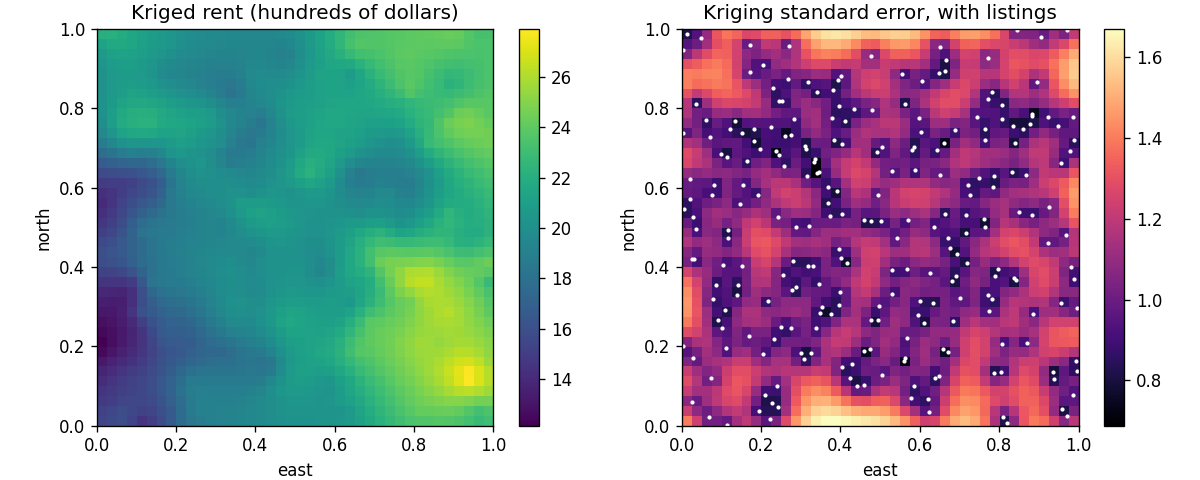
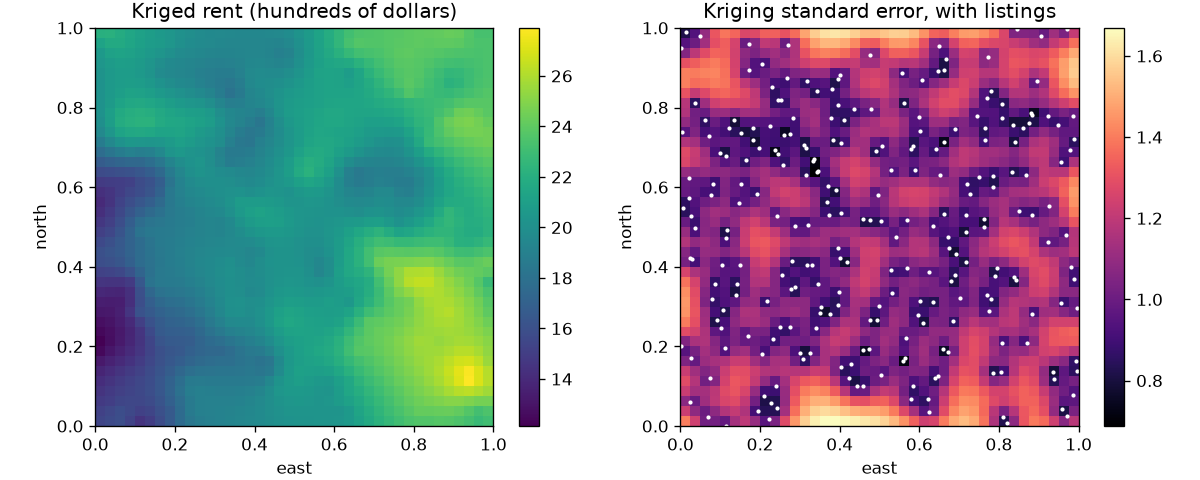
Review Chapter 4 (Kriging as BLUP) and expand analytical exercises
- Review Chapter 4 derivations, Schur complement inversions, and LOOCV shortcut
- Expand Exercise bank from 15 to 20 problems with 5 new analytical exercises:
  * Exercise 11: Variogram formulation of Ordinary Kriging under intrinsic stationarity
  * Exercise 12: Exact screening effect in 1D Markov fields (Ornstein-Uhlenbeck)
  * Exercise 13: Derivation of Gaussian conditional expectation (BLUP optimality)
  * Exercise 14: Sequential kriging updates via block inversion and Woodbury identity
  * Exercise 15: Lagrange multiplier as marginal sensitivity of prediction uncertainty
- Renumber computational exercises to 16–20
- Clarify why joint simulation (joint_field) is required for ground-truth checks in §4.5.4
- Mark §4.5.3 (kernel ridge regression connection) as (Optional) in chapter and outline
- Synchronize OUTLINE.md running stories for block kriging to neighborhood rents
- Update OPEN_QUESTIONS.md and README.md with Chapter 4 approval (10,823 words)
- Verify lint_chapter.py, check_consistency.py, and run_chapter_code.py pass cleanly

diff --git a/spatial-data-analysis/current/chapters/ch04_kriging_blup.md b/spatial-data-analysis/current/chapters/ch04_kriging_blup.md
@@ -617,7 +617,9 @@ $$
 
 The prediction is the same; the interval is wider, by the nugget. A landlord who asks "what will this particular apartment rent for?" needs the wider interval. An agency mapping the rent level of a neighborhood needs the narrower one. Software output often does not say which it reports, which is one reason to understand the derivation.
 
-### 4.5.3 Kriging Is Gaussian Process Regression and Kernel Ridge Regression
+### 4.5.3 Kriging Is Gaussian Process Regression and Kernel Ridge Regression (Optional)
+
+*This subsection connects kriging to Gaussian process regression and kernel ridge regression in machine learning. It can be skipped on a first reading.*
 
 Kriging appears under other names in machine learning. Two connections are worth making precise.
 
@@ -657,7 +659,7 @@ $$
 
 The naive back-transformation $\exp(\hat{Y}_{\text{SK}})$ estimates the conditional median, not the mean, and is biased low. The correction factor $e^{\sigma^2_{\text{SK}}/2}$ is largest where the prediction is least certain. (With an estimated mean, as in ordinary or universal kriging, the exact correction has an extra term; using the kriging variance in its place is a common approximation.)
 
-The code checks this on a simulated log-rent field, with log-scale mean 3 (a typical rent of $e^3 \approx 20$, about \$2,000), $\sigma^2 = 0.09$, $\tau^2 = 0.01$, and $\phi = 0.15$. It predicts the noise-free rent on a $20 \times 20$ grid of unlisted locations. Checking against the truth requires the true values at those grid locations, so the spatial effect must be simulated jointly at the listings and the grid. The function `joint_field` does that: one Cholesky factorization of the combined covariance matrix, as in Section 2.7. The rent district generator used elsewhere in this chapter simulates only at the listings, which is why a second generator is needed here.
+The code checks this on a simulated log-rent field, with log-scale mean 3 (a typical rent of $e^3 \approx 20$, about \$2,000), $\sigma^2 = 0.09$, $\tau^2 = 0.01$, and $\phi = 0.15$. It predicts the noise-free rent on a $20 \times 20$ grid of unlisted locations. Checking against the truth requires knowing what the true surface was at those unlisted grid locations. Simulating the listings first with `rent_district()` and then simulating the grid in a separate call would produce two independent realizations, destroying the spatial correlation between the data and the targets. To preserve the covariance $\mathbf{c}_0$, the random effect $\mathbf{u}$ must be drawn jointly from the combined $(n + m)$-dimensional distribution. The function `joint_field` does that through a single Cholesky factorization of the combined covariance matrix, as in Section 2.7. The rent district generator used elsewhere in this chapter simulates only at the listings, which is why a second generator is needed here.
 
 ```python
 def joint_field(S_obs, S_new, sigma2, phi, seed):
@@ -1029,17 +1031,50 @@ The two columns tell different stories. The standard error of the prediction fal
 
 10. In the block-kriging argument of Section 4.6.3, when is the inequality an equality? Describe a covariance model and a block for which block kriging gives almost no improvement over point kriging.
 
+11. Formulate ordinary kriging directly through the semivariogram $\gamma(\mathbf{h})$ rather than the covariance $C(\mathbf{h})$. Assume intrinsic stationarity, with $\gamma(\mathbf{s}_i - \mathbf{s}_j) = C(\mathbf{0}) - C(\mathbf{s}_i - \mathbf{s}_j)$. Define the $n \times n$ semivariogram matrix $\boldsymbol{\Gamma}$ with entries $\Gamma_{ij} = \gamma(\mathbf{s}_i - \mathbf{s}_j)$ and the target semivariogram vector $\boldsymbol{\gamma}_0$ with entries $(\boldsymbol{\gamma}_0)_i = \gamma(\mathbf{s}_i - \mathbf{s}_0)$.
+    (a) For any weight vector satisfying $\boldsymbol{\lambda}'\mathbf{1}_n = 1$, show that $\boldsymbol{\lambda}'\boldsymbol{\Sigma}\boldsymbol{\lambda} = C(\mathbf{0}) - \boldsymbol{\lambda}'\boldsymbol{\Gamma}\boldsymbol{\lambda}$ and $\boldsymbol{\lambda}'\mathbf{c}_0 = C(\mathbf{0}) - \boldsymbol{\lambda}'\boldsymbol{\gamma}_0$.
+    (b) Show that minimizing the prediction error variance subject to $\boldsymbol{\lambda}'\mathbf{1}_n = 1$ leads to the linear system
+    $$
+    \begin{bmatrix} \boldsymbol{\Gamma} & \mathbf{1}_n \\ \mathbf{1}_n' & 0 \end{bmatrix} \begin{bmatrix} \boldsymbol{\lambda} \\ m_\gamma \end{bmatrix} = \begin{bmatrix} \boldsymbol{\gamma}_0 \\ 1 \end{bmatrix}
+    $$
+    with $m_\gamma = -m$, giving the identical weights $\boldsymbol{\lambda}_{\text{OK}}$ as the covariance system.
+    (c) Show that the ordinary kriging variance equals $\sigma^2_{\text{OK}} = \boldsymbol{\lambda}'\boldsymbol{\gamma}_0 + m_\gamma$. Use this to explain why ordinary kriging requires only intrinsic stationarity, whereas simple kriging requires second-order stationarity.
+
+12. In a one-dimensional spatial process on the line with exponential covariance $C(h) = \sigma^2 \exp(-\lvert h\rvert / \phi)$ and no nugget ($\tau^2 = 0$), the process is a stationary Markov process (the Ornstein-Uhlenbeck process). Suppose observations are located at $s_1 < s_2 < \dots < s_n$. We want to predict $\tilde{Y}(s_0)$ at an interior point $s_0 \in (s_k, s_{k+1})$ by simple kriging with mean zero.
+    (a) Using the tridiagonal structure of $\boldsymbol{\Sigma}^{-1}$ from Section 1.3.2, show that the simple kriging weights $\lambda_j$ are zero for all $j \notin \{k, k+1\}$: the screening effect is exact.
+    (b) Solve the reduced $2 \times 2$ system for the weights $\lambda_k$ and $\lambda_{k+1}$ on the two enclosing neighbors in terms of $d_1 = s_0 - s_k$, $d_2 = s_{k+1} - s_0$, and $\Delta = s_{k+1} - s_k = d_1 + d_2$.
+    (c) Show that both weights are positive. Show that as the correlation range $\phi \to \infty$, the weights converge to linear interpolation: $\lambda_k \to d_2 / \Delta$ and $\lambda_{k+1} \to d_1 / \Delta$.
+
+13. Derive the simple kriging predictor as a conditional expectation under joint normality. Suppose $\mathbf{Y}$ and $\tilde{Y}_0 = \tilde{Y}(\mathbf{s}_0)$ are jointly Gaussian:
+    $$
+    \begin{bmatrix} \mathbf{Y} \\ \tilde{Y}_0 \end{bmatrix} \sim N\!\left(\begin{bmatrix} \boldsymbol{\mu} \\ \mu_0 \end{bmatrix},\; \begin{bmatrix} \boldsymbol{\Sigma} & \mathbf{c}_0 \\ \mathbf{c}_0' & \sigma^2 \end{bmatrix}\right)
+    $$
+    Define the random variable $Z = \tilde{Y}_0 - \mathbf{c}_0'\boldsymbol{\Sigma}^{-1}\mathbf{Y}$.
+    (a) Compute $\operatorname{Cov}(Z, \mathbf{Y})$ and show that it equals $\mathbf{0}'$.
+    (b) Because linear combinations of Gaussian vectors are Gaussian, zero covariance implies that $Z$ and $\mathbf{Y}$ are independent. Use this independence to evaluate $\operatorname{E}[\tilde{Y}_0 \mid \mathbf{Y}]$ and $\operatorname{Var}(\tilde{Y}_0 \mid \mathbf{Y})$ by writing $\tilde{Y}_0 = Z + \mathbf{c}_0'\boldsymbol{\Sigma}^{-1}\mathbf{Y}$.
+    (c) Confirm that the conditional mean and conditional variance match the simple kriging formulas $\hat{Y}_{\text{SK}}(\mathbf{s}_0)$ and $\sigma^2_{\text{SK}}(\mathbf{s}_0)$. Explain why this implies that under normality, no nonlinear predictor can achieve a lower mean squared prediction error than simple kriging.
+
+14. Suppose simple kriging weights $\boldsymbol{\lambda}_n = \boldsymbol{\Sigma}_n^{-1}\mathbf{c}_0$ have been computed for $n$ listings. A new listing arrives at location $\mathbf{s}_{n+1}$, expanding the covariance matrix to $\boldsymbol{\Sigma}_{n+1} = \begin{bmatrix} \boldsymbol{\Sigma}_n & \mathbf{k} \\ \mathbf{k}' & \Sigma_{n+1, n+1} \end{bmatrix}$ and the target covariance to $\mathbf{c}_{0, n+1} = (\mathbf{c}_0', c_{0, n+1})'$.
+    (a) Use the block inversion formula of Section 4.3.4 to express $\boldsymbol{\Sigma}_{n+1}^{-1}$ in terms of $\boldsymbol{\Sigma}_n^{-1}$, $\mathbf{k}$, and the scalar Schur complement $s = \Sigma_{n+1, n+1} - \mathbf{k}'\boldsymbol{\Sigma}_n^{-1}\mathbf{k}$.
+    (b) Show that the new weight on listing $n+1$ is $\lambda_{n+1} = (c_{0, n+1} - \mathbf{k}'\boldsymbol{\lambda}_n) / s$, and express the updated weights $\boldsymbol{\lambda}_{1:n}$ on the original $n$ listings in terms of $\boldsymbol{\lambda}_n$ and $\lambda_{n+1}$.
+    (c) Show that the updated simple kriging variance satisfies $\sigma^2_{\text{SK}, n+1} = \sigma^2_{\text{SK}, n} - s\,\lambda_{n+1}^2$. Conclude that adding an observation can never increase the simple kriging variance.
+
+15. In ordinary kriging, consider relaxing the unbiasedness constraint to $\boldsymbol{\lambda}'\mathbf{1}_n = c$ for an arbitrary scalar $c$.
+    (a) Minimize $\operatorname{MSPE}(\boldsymbol{\lambda}) = \boldsymbol{\lambda}'\boldsymbol{\Sigma}\boldsymbol{\lambda} - 2\boldsymbol{\lambda}'\mathbf{c}_0 + \sigma^2$ subject to $\boldsymbol{\lambda}'\mathbf{1}_n = c$ using the Lagrangian $\mathcal{L}_c(\boldsymbol{\lambda}, m) = \operatorname{MSPE}(\boldsymbol{\lambda}) + 2m(\boldsymbol{\lambda}'\mathbf{1}_n - c)$. Show that the constrained minimum variance as a function of $c$, $V(c)$, satisfies $V(c) = \sigma^2_{\text{SK}} + (c - a_0)^2 / q_0$, where $a_0 = \mathbf{1}_n'\boldsymbol{\Sigma}^{-1}\mathbf{c}_0$ and $q_0 = \mathbf{1}_n'\boldsymbol{\Sigma}^{-1}\mathbf{1}_n$.
+    (b) Differentiate $V(c)$ with respect to $c$ and evaluate at $c = 1$. Show that $V'(1) = 2m$, confirming the economic interpretation of the Lagrange multiplier as the marginal change in prediction variance per unit shift in the constraint.
+    (c) Using $m = (a_0 - 1) / q_0$, explain under what conditions on the location $\mathbf{s}_0$ the Lagrange multiplier satisfies $m < 0$, $m = 0$, or $m > 0$.
+
 **Computational and simulation**
 
-11. For the rent district, compute the universal kriging standard error along the line from $(0.5, 0.5)$ to $(2, 0.5)$, east out of the district. Plot the simple kriging variance and the trend cost separately. Where does the trend cost overtake the simple kriging variance?
+16. For the rent district, compute the universal kriging standard error along the line from $(0.5, 0.5)$ to $(2, 0.5)$, east out of the district. Plot the simple kriging variance and the trend cost separately. Where does the trend cost overtake the simple kriging variance?
 
-12. Repeat the coverage experiment of Section 4.8.3 for the other target: a new observation at each grid location, with intervals $\hat{Y} \pm 1.96\sqrt{\sigma^2_{\text{UK}} + \tau^2}$. Confirm about 95% coverage, and show that the intervals for $\tilde{Y}$ cover new observations far less often.
+17. Repeat the coverage experiment of Section 4.8.3 for the other target: a new observation at each grid location, with intervals $\hat{Y} \pm 1.96\sqrt{\sigma^2_{\text{UK}} + \tau^2}$. Confirm about 95% coverage, and show that the intervals for $\tilde{Y}$ cover new observations far less often.
 
-13. Run the coverage experiment with a misspecified covariance: krige with $\phi = 0.05$ or $\phi = 0.4$ while simulating with $\phi = 0.15$. Report coverage and RMSE. Which mistake is worse, and why?
+18. Run the coverage experiment with a misspecified covariance: krige with $\phi = 0.05$ or $\phi = 0.4$ while simulating with $\phi = 0.15$. Report coverage and RMSE. Which mistake is worse, and why?
 
-14. Use the LOOCV shortcut to choose $\phi$ for the rent district: compute the leave-one-out root mean squared error for $\phi$ from 0.05 to 0.40, keeping $\sigma^2$ and $\tau^2$ fixed. Does the minimum fall near the true value 0.15?
+19. Use the LOOCV shortcut to choose $\phi$ for the rent district: compute the leave-one-out root mean squared error for $\phi$ from 0.05 to 0.40, keeping $\sigma^2$ and $\tau^2$ fixed. Does the minimum fall near the true value 0.15?
 
-15. Compute block kriging variances for squares $[0.5 - w/2, 0.5 + w/2]^2$ with $w$ from 0.02 to 0.8, and plot them against $w$. Explain the shape of the curve, including its value as $w \to 0$.
+20. Compute block kriging variances for squares $[0.5 - w/2, 0.5 + w/2]^2$ with $w$ from 0.02 to 0.8, and plot them against $w$. Explain the shape of the curve, including its value as $w \to 0$.
 
 ---
 

diff --git a/spatial-data-analysis/current/OPEN_QUESTIONS.md b/spatial-data-analysis/current/OPEN_QUESTIONS.md
@@ -31,11 +31,7 @@ Decisions and checks waiting for the author, collected while drafting Chapters 3
 
 ## Chapter 4: Kriging as BLUP
 
-1. **Block-kriging story.** The outline's running-stories line is now updated, but the original story was "the average noise level over a park," but the chapter's data are rents, so §4.6 predicts the average rent over a neighborhood (a housing agency's benchmark) and mentions the park only as a parallel. **Recommendation:** keep rents for continuity, and update the outline's running-stories line (not yet changed).
-2. **A second simulation for truth checks.** The chapter uses `rent_district()` for most examples, plus a second generator, `joint_field()`, for checks against the true surface at unlisted locations (log kriging and the coverage experiment). Is the explanation in §4.5.4 of why a second generator is needed clear enough?
-3. **What else to mark Optional.** Only the leave-one-out proof (§4.7.4) is Optional. The block-inversion tool (§4.3.4) and the kernel ridge derivation (§4.5.3) are in the main text. **Recommendation:** make §4.5.3's kernel ridge derivation Optional and keep §4.3.4, which Chapters 5 and 8 use.
-4. **Lognormal correction with an estimated mean.** §4.5.4 derives the exact back-transformation correction only for simple kriging and calls the ordinary and universal versions "a common approximation." Add the exact ordinary-kriging correction, or leave it for Appendix D?
-5. **The symbol $\mathbf{K}$** for the bordered kriging matrix. It is bold, so it does not clash with $K(r)$ or $K_\nu$, and it is listed in `NOTATION.md`. OK?
+1. **Trim candidates:** The Optional derivation of kernel ridge regression (§4.5.3) and the leave-one-out proof (§4.7.4) could move to Appendix A if trimming is desired later. (Items 1-5 settled on 2026-10-26: keep neighborhood rent story in outline and chapter, clarify joint_field rationale for graduate students in §4.5.4, mark §4.5.3 Optional, defer exact ordinary lognormal kriging correction to Appendix D, keep bold K for bordered kriging matrix).
 
 ## Chapter 5: Likelihood, REML, and Diagnostics
 

diff --git a/spatial-data-analysis/current/OUTLINE.md b/spatial-data-analysis/current/OUTLINE.md
@@ -178,7 +178,7 @@ All notation, the typographic conventions, the model used throughout, and the co
 
 ### Chapter 4: Spatial Prediction: Kriging as Linear Model BLUP
 
-*Running stories:* predicting the rent of an unlisted building; the average rent over a neighborhood (block kriging; a parallel is the average noise level over a park); kriging log rents.
+*Running stories:* predicting the rent of an unlisted building; the average rent over a neighborhood (block kriging; housing agency benchmark); kriging log rents.
 
 * 4.1 Demystifying "kriging": it is best linear unbiased prediction
     * 4.1.1 The prediction target: the noise-free value $\tilde{Y}(\mathbf{s}_0) = \mu(\mathbf{s}_0) + u(\mathbf{s}_0)$, with $\mathbf{c}_0 = \operatorname{Cov}(\mathbf{Y}, \tilde{Y}(\mathbf{s}_0))$
@@ -202,7 +202,7 @@ All notation, the typographic conventions, the model used throughout, and the co
 * 4.5 Two targets, and interpolation versus smoothing
     * 4.5.1 Predicting the noise-free value at a data location: interpolation when $\tau^2 = 0$, smoothing when $\tau^2 > 0$ (with Figure 4.1)
     * 4.5.2 Predicting a new observation: the same predictor, with $\tau^2$ added to the variance
-    * 4.5.3 Kriging as a conditional mean, Gaussian process regression, and kernel ridge regression
+    * 4.5.3 Kriging as a conditional mean, Gaussian process regression, and kernel ridge regression (Optional)
     * 4.5.4 Skewed responses: kriging $\log Y$ and the back-transformation correction $e^{\sigma^2_{\text{SK}}/2}$
 * 4.6 Change of support: block kriging
     * 4.6.1 Predicting an areal average $\tilde{Y}(B)$

diff --git a/spatial-data-analysis/current/README.md b/spatial-data-analysis/current/README.md
@@ -50,7 +50,7 @@ Read these files in this order:
 
 ## Current Status
 
-As of 2026-10-25. Chapters 0 to 13 are drafted; the appendices are not. The author has read Chapters 0, 1, 2, and 3 and approved them; Chapters 4 to 13 are unreviewed. The drafts lean long on derivations so they can be trimmed in review.
+As of 2026-10-26. Chapters 0 to 13 are drafted; the appendices are not. The author has read Chapters 0, 1, 2, 3, and 4 and approved them; Chapters 5 to 13 are unreviewed. The drafts lean long on derivations so they can be trimmed in review.
 
 | Chapter | File | Words (including code and equations) | Figures |
 | :--- | :--- | :--- | :--- |
@@ -58,7 +58,7 @@ As of 2026-10-25. Chapters 0 to 13 are drafted; the appendices are not. The auth
 | 1 | `chapters/ch01_spatial_dependence.md` | 9,484 | 0 |
 | 2 | `chapters/ch02_spatial_linear_model.md` | 8,020 | 2 |
 | 3 | `chapters/ch03_empirical_variography.md` | 8,180 | 3 |
-| 4 | `chapters/ch04_kriging_blup.md` | 10,005 | 2 |
+| 4 | `chapters/ch04_kriging_blup.md` | 10,823 | 2 |
 | 5 | `chapters/ch05_likelihood_reml.md` | 10,719 | 2 |
 | 6 | `chapters/ch06_areal_units_moran.md` | 15,613 | 4 |
 | 7 | `chapters/ch07_sar_models.md` | 12,771 | 3 |
